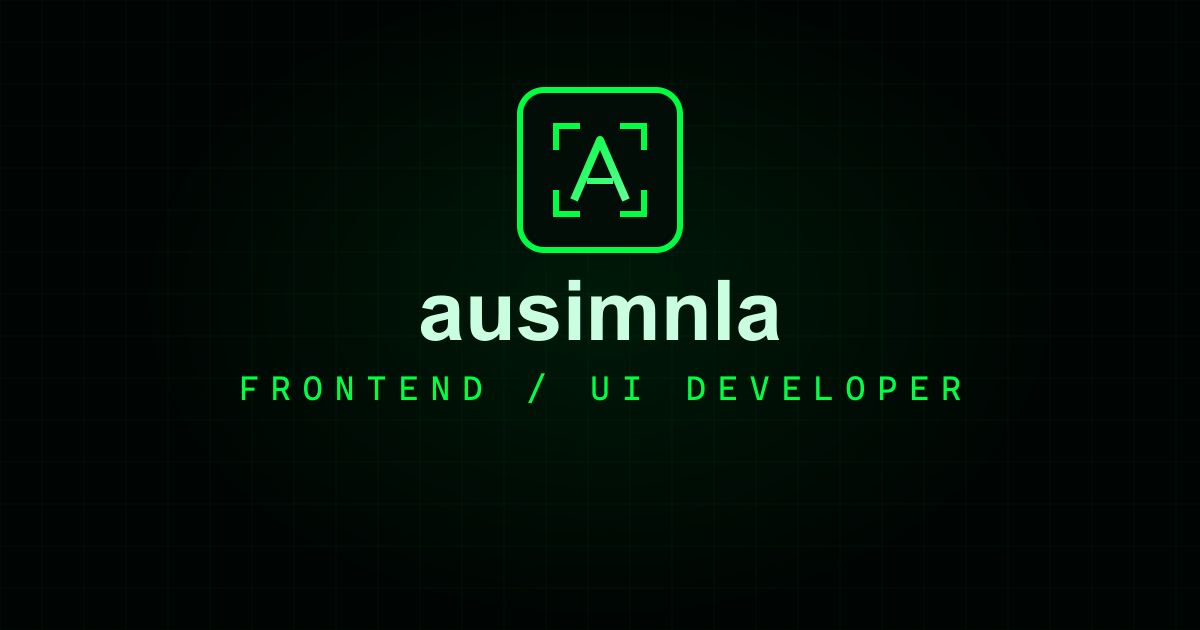
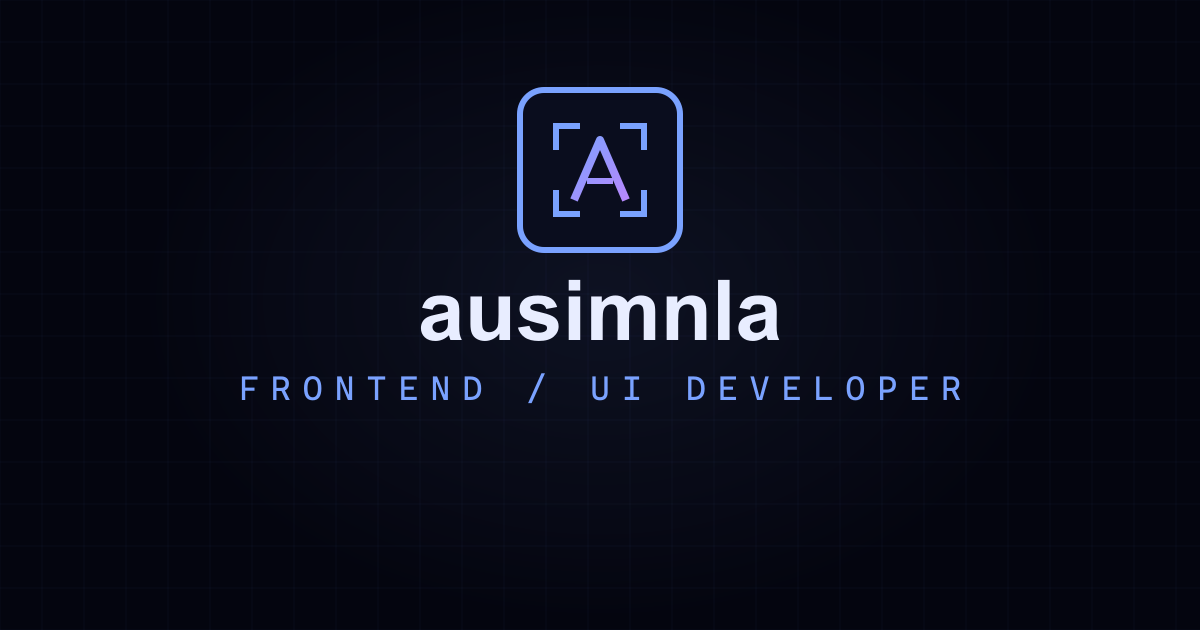
Restyled to dark interstellar space theme with starfield

Changed region(s): [[0.185, 0.1206, 0.8017, 0.6333], [0.4625, 0.6635, 0.5242, 0.6937]]

diff --git a/app/globals.css b/app/globals.css
@@ -7,55 +7,54 @@ html {
 }
 
 body {
-  background-color: #000503;
+  background-color: #04050F;
   background-image:
-    linear-gradient(rgba(0,255,65,0.045) 1px, transparent 1px),
-    linear-gradient(90deg, rgba(0,255,65,0.045) 1px, transparent 1px),
-    radial-gradient(circle at 85% 0%, rgba(0,255,65,0.07), transparent 45%),
-    radial-gradient(circle at 5% 60%, rgba(0,204,102,0.05), transparent 45%);
-  background-size: 42px 42px, 42px 42px, 100% 100%, 100% 100%;
-  color: #C9FFE0;
+    radial-gradient(1px 1px at 25px 45px, rgba(255,255,255,0.9), transparent 1.2px),
+    radial-gradient(1px 1px at 125px 155px, rgba(255,255,255,0.55), transparent 1.2px),
+    radial-gradient(1.5px 1.5px at 205px 40px, rgba(122,162,255,0.85), transparent 1.8px),
+    radial-gradient(1px 1px at 55px 215px, rgba(255,255,255,0.65), transparent 1.2px),
+    radial-gradient(1px 1px at 185px 265px, rgba(255,255,255,0.8), transparent 1.2px),
+    radial-gradient(2px 2px at 30px 130px, rgba(187,134,252,0.7), transparent 2.4px),
+    radial-gradient(circle at 80% 0%, rgba(187,134,252,0.11), transparent 45%),
+    radial-gradient(circle at 5% 60%, rgba(122,162,255,0.09), transparent 45%),
+    radial-gradient(circle at 50% 115%, rgba(255,107,157,0.06), transparent 50%);
+  background-size:
+    260px 300px, 260px 300px, 260px 300px, 260px 300px, 260px 300px, 260px 300px,
+    100% 100%, 100% 100%, 100% 100%;
+  color: #E8EDFF;
 }
 
-/* CRT scanline overlay */
+/* soft vignette for deep-space depth */
 body::after {
   content: "";
   position: fixed;
   inset: 0;
   z-index: 9999;
   pointer-events: none;
-  background:
-    repeating-linear-gradient(
-      0deg,
-      rgba(0, 0, 0, 0.14) 0px,
-      rgba(0, 0, 0, 0.14) 1px,
-      transparent 1px,
-      transparent 3px
-    ),
-    linear-gradient(rgba(0, 255, 65, 0.025), rgba(0, 255, 65, 0.025));
+  background: radial-gradient(ellipse at center, transparent 55%, rgba(0, 0, 0, 0.55) 100%);
 }
 
 ::selection {
-  background: #00FF41;
-  color: #000503;
+  background: #7AA2FF;
+  color: #04050F;
 }
 
 ::-webkit-scrollbar {
   width: 10px;
 }
 ::-webkit-scrollbar-track {
-  background: #000503;
+  background: #04050F;
 }
 ::-webkit-scrollbar-thumb {
-  background: #0A3B22;
+  background: #232B4D;
   border-radius: 2px;
 }
 ::-webkit-scrollbar-thumb:hover {
-  background: #00FF41;
+  background: #7AA2FF;
 }
 
 :focus-visible {
-  outline: 2px solid #00FF41;
+  outline: 2px solid #7AA2FF;
   outline-offset: 2px;
 }
 
@@ -117,7 +116,7 @@ body::after {
   top: 0;
   bottom: 0;
   width: 40%;
-  background: linear-gradient(90deg, transparent, rgba(0,255,65,0.45), transparent);
+  background: linear-gradient(90deg, transparent, rgba(122,162,255,0.45), transparent);
   animation: bar-sweep 2.2s ease-in-out infinite;
 }
 @keyframes bar-sweep {
@@ -147,7 +146,7 @@ body::after {
   }
 }
 
-/* soft green glow for accent text */
+/* soft blue glow for accent text */
 .text-glow {
-  text-shadow: 0 0 10px rgba(0, 255, 65, 0.45);
+  text-shadow: 0 0 10px rgba(122, 162, 255, 0.45);
 }

diff --git a/components/StarField.tsx b/components/StarField.tsx
@@ -1,0 +1,92 @@
+"use client";
+
+import { useEffect, useRef } from "react";
+
+type Star = {
+  x: number;
+  y: number;
+  r: number;
+  base: number;
+  speed: number;
+  phase: number;
+  hue: string;
+};
+
+export default function StarField() {
+  const ref = useRef<HTMLCanvasElement>(null);
+
+  useEffect(() => {
+    const canvas = ref.current;
+    if (!canvas) return;
+    const ctx = canvas.getContext("2d");
+    if (!ctx) return;
+    const g = ctx;
+    const el = canvas;
+
+    const reduced = window.matchMedia("(prefers-reduced-motion: reduce)").matches;
+    const hues = [
+      "255,255,255",
+      "255,255,255",
+      "122,162,255",
+      "187,134,252",
+      "255,213,128",
+    ];
+
+    let raf = 0;
+    let stars: Star[] = [];
+    let t = 0;
+
+    function resize() {
+      const { innerWidth, innerHeight } = window;
+      const dpr = Math.min(window.devicePixelRatio || 1, 2);
+      el.width = innerWidth * dpr;
+      el.height = innerHeight * dpr;
+      g.setTransform(dpr, 0, 0, dpr, 0, 0);
+      el.style.width = `${innerWidth}px`;
+      el.style.height = `${innerHeight}px`;
+
+      const count = Math.floor((innerWidth * innerHeight) / 9000);
+      stars = Array.from({ length: count }, () => ({
+        x: Math.random() * innerWidth,
+        y: Math.random() * innerHeight,
+        r: Math.random() * 1.4 + 0.4,
+        base: Math.random() * 0.5 + 0.4,
+        speed: Math.random() * 0.02 + 0.005,
+        phase: Math.random() * Math.PI * 2,
+        hue: hues[Math.floor(Math.random() * hues.length)],
+      }));
+    }
+
+    function draw() {
+      g.clearRect(0, 0, window.innerWidth, window.innerHeight);
+      for (const star of stars) {
+        const twinkle = reduced
+          ? 1
+          : star.base + Math.sin(t * star.speed * 60 + star.phase) * 0.35;
+        g.beginPath();
+        g.arc(star.x, star.y, star.r, 0, Math.PI * 2);
+        g.fillStyle = `rgba(${star.hue},${Math.max(0.15, twinkle)})`;
+        g.fill();
+      }
+      t += 1;
+      if (!reduced) raf = requestAnimationFrame(draw);
+    }
+
+    resize();
+    window.addEventListener("resize", resize);
+    draw();
+
+    return () => {
+      cancelAnimationFrame(raf);
+      window.removeEventListener("resize", resize);
+    };
+  }, []);
+
+  return (
+    <canvas
+      ref={ref}
+      aria-hidden
+      className="fixed inset-0 -z-10 pointer-events-none"
+    />
+  );
+}

diff --git a/tailwind.config.ts b/tailwind.config.ts
@@ -8,16 +8,16 @@ const config: Config = {
   theme: {
     extend: {
       colors: {
-        void: "#000503",
-        panel: "#020D08",
-        panel2: "#031510",
-        line: "#0A3B22",
-        text: "#C9FFE0",
-        muted: "#4E8F6D",
-        cyan: "#00FF41",
-        amber: "#66FF99",
-        violet: "#00CC66",
-        danger: "#FF3B3B",
+        void: "#04050F",
+        panel: "#0A0D1E",
+        panel2: "#101632",
+        line: "#232B4D",
+        text: "#E8EDFF",
+        muted: "#8FA0CC",
+        cyan: "#7AA2FF",
+        amber: "#FFD580",
+        violet: "#BB86FC",
+        danger: "#FF6B9D",
       },
       fontFamily: {
         display: ["var(--font-space-grotesk)", "ui-sans-serif", "system-ui"],
@@ -25,9 +25,9 @@ const config: Config = {
         mono: ["var(--font-jetbrains)", "ui-monospace", "SFMono-Regular", "monospace"],
       },
       boxShadow: {
-        glow: "0 0 0 1px rgba(0,255,65,0.25), 0 0 24px -4px rgba(0,255,65,0.4)",
-        "glow-sm": "0 0 0 1px rgba(0,255,65,0.2), 0 0 12px -4px rgba(0,255,65,0.35)",
-        "glow-amber": "0 0 0 1px rgba(102,255,153,0.25), 0 0 24px -4px rgba(102,255,153,0.4)",
+        glow: "0 0 0 1px rgba(122,162,255,0.25), 0 0 24px -4px rgba(122,162,255,0.4)",
+        "glow-sm": "0 0 0 1px rgba(122,162,255,0.2), 0 0 12px -4px rgba(122,162,255,0.35)",
+        "glow-amber": "0 0 0 1px rgba(255,213,128,0.25), 0 0 24px -4px rgba(255,213,128,0.4)",
       },
       keyframes: {
         marquee: {

diff --git a/components/Logo.tsx b/components/Logo.tsx
@@ -27,8 +27,8 @@ export default function Logo({
           y2="24"
           gradientUnits="userSpaceOnUse"
         >
-          <stop offset="0%" stopColor="#00FF41" />
-          <stop offset="100%" stopColor="#66FF99" />
+          <stop offset="0%" stopColor="#7AA2FF" />
+          <stop offset="100%" stopColor="#BB86FC" />
         </linearGradient>
       </defs>
       <rect
@@ -37,31 +37,31 @@ export default function Logo({
         width="30"
         height="30"
         rx="7"
-        fill="#020D08"
-        stroke="#0A3B22"
+        fill="#0A0D1E"
+        stroke="#232B4D"
         strokeWidth="1.5"
       />
       <path
         d="M5 11 V5 H11"
-        stroke="#00FF41"
+        stroke="#7AA2FF"
         strokeWidth="1.5"
         strokeLinecap="square"
       />
       <path
         d="M21 5 H27 V11"
-        stroke="#00FF41"
+        stroke="#7AA2FF"
         strokeWidth="1.5"
         strokeLinecap="square"
       />
       <path
         d="M27 21 V27 H21"
-        stroke="#00FF41"
+        stroke="#7AA2FF"
         strokeWidth="1.5"
         strokeLinecap="square"
       />
       <path
         d="M11 27 H5 V21"
-        stroke="#00FF41"
+        stroke="#7AA2FF"
         strokeWidth="1.5"
         strokeLinecap="square"
       />

diff --git a/app/layout.tsx b/app/layout.tsx
@@ -4,7 +4,7 @@ import "./globals.css";
 import Navbar from "@/components/Navbar";
 import Footer from "@/components/Footer";
 import CursorGlow from "@/components/CursorGlow";
-import MatrixRain from "@/components/MatrixRain";
+import StarField from "@/components/StarField";
 import BackToTop from "@/components/BackToTop";
 
 const spaceGrotesk = Space_Grotesk({
@@ -57,7 +57,7 @@ export default function RootLayout({
       className={`${spaceGrotesk.variable} ${jakarta.variable} ${jetbrainsMono.variable}`}
     >
       <body className="bg-void text-text font-sans antialiased min-h-screen flex flex-col overflow-x-hidden">
-        <MatrixRain />
+        <StarField />
         <CursorGlow />
         <Navbar />
         <main className="flex-1">{children}</main>

diff --git a/components/Navbar.tsx b/components/Navbar.tsx
@@ -16,7 +16,7 @@ export default function Navbar() {
           <Logo
             size={28}
             gradientId="logo-grad-nav"
-            className="transition-all duration-200 group-hover:drop-shadow-[0_0_6px_rgba(0,255,65,0.5)]"
+            className="transition-all duration-200 group-hover:drop-shadow-[0_0_6px_rgba(122,162,255,0.5)]"
           />
           ausimnla
         </a>

diff --git a/components/CursorGlow.tsx b/components/CursorGlow.tsx
@@ -35,7 +35,7 @@ export default function CursorGlow() {
         visible ? "opacity-100" : "opacity-0"
       }`}
       style={{
-        background: "radial-gradient(circle, rgba(0,255,65,0.08), transparent 60%)",
+        background: "radial-gradient(circle, rgba(122,162,255,0.09), transparent 60%)",
         willChange: "transform",
       }}
     />
